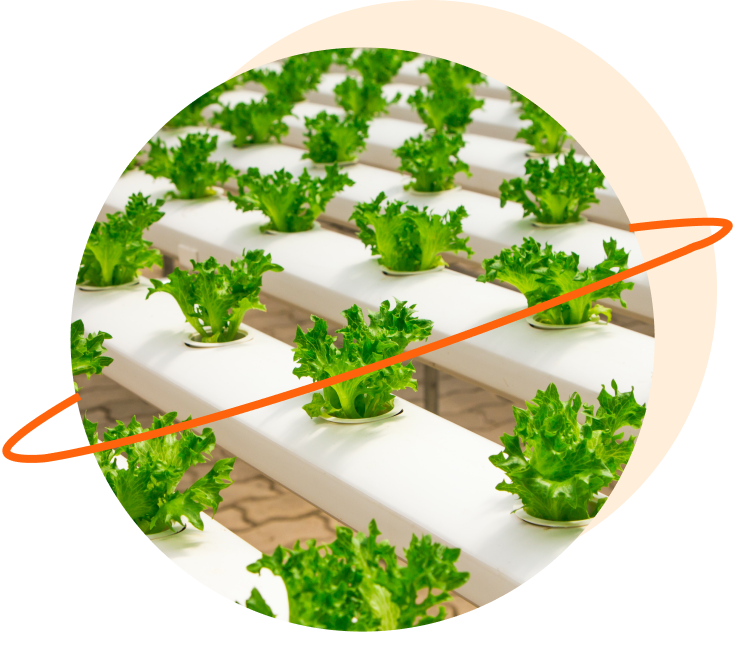
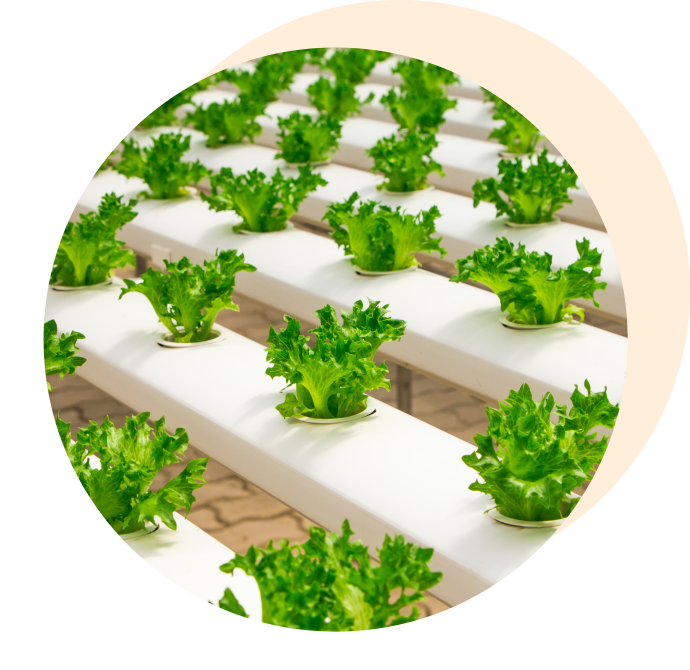
Add svgAnimation & loco Animation

diff --git a/frontend/src/components/Home/Home.js b/frontend/src/components/Home/Home.js
@@ -1,4 +1,4 @@
-import React, {useState, useEffect} from "react";
+import React, {useEffect} from "react";
 import locomotiveScroll from "locomotive-scroll";
 import "../../styles/Home.scss";
 import "../../styles/base_loco.css";
@@ -14,6 +14,7 @@ import Arrow from "../../assets/Home/2-How we make an impact/Arrow.png";
 import BackBigPic from "../../assets/Home/3-Know about process of farming/Back Big Pic.png";
 import RightLine from "../../assets/Home/3-Know about process of farming/Right Line.png";
 import FrontSmallPic from "../../assets/Home/3-Know about process of farming/Front Small Pic.png";
+import ButtonHoverArrow from "../../assets/Home/3-Know about process of farming/HoverArrow.png";
 // Updated methods assets
 import Updated__Left from "../../assets/Home/4-Updated methods/Left Side Pic.png";
 //Footer assets
@@ -36,7 +37,7 @@ function Home() {
         <>
             <div className="scroll" ref={scrollRef}>
             <div>
-                <nav data-scroll-sticky id="navbar" style={{position: 'fixed'}}>
+                <nav data-scroll-sticky id="navbar">
                     <p className="nav__logo">LOGO</p>
                     <ul className="navlinks">
                         <li><a className="navlinks__shop" href="/shop">Shop</a></li>
@@ -74,6 +75,10 @@ function Home() {
             
 
             <img src={HeroPic} className="hero__pic"/>
+            <svg id="hero__pic--orangeLine" viewBox="0 0 735 247" fill="none" xmlns="http://www.w3.org/2000/svg">
+                <path className="svgLine" d="M49.4997 197C30.9225 207.329 18.8496 213.564 6.97569 228.068C-4.89819 242.572 26.1059 242.902 43.0921 241.253C111.505 230.989 335.326 175.101 683.305 33.6585C687.687 31.6202 691.107 30.0903 692.27 29.5802C700.252 27.5104 718.194 20.7536 726.103 10.2842C734.012 -0.185244 672.294 6.84977 636 11.5" stroke="#FF640D" stroke-width="8"/>
+            </svg>
+
             
             {/* How we make an impact / About Us Section */}
             <div className="makeAnImpact">
@@ -94,6 +99,7 @@ function Home() {
                 
                 <a href="#" className="process__button">
                     <p id="process__button--LearnMore">Learn more</p>
+                    <img src={ButtonHoverArrow} className="process__button--buttonHoverArrow" />
                 </a>
 
                 <img src={RightLine} className="process__rightLine" />

diff --git a/frontend/src/styles/Home.scss b/frontend/src/styles/Home.scss
@@ -139,7 +139,29 @@ a {
   left: 55.8vw;
   top: 8.68vw;
 }
+#hero__pic--orangeLine {
+  position: absolute;
+  width: 38.55vw;
+  left: 55.8vw;
+  top: 20vw;
 
+  .svgLine {
+    fill-opacity: 0;
+    stroke-width: 8px;
+    stroke-dashoffset: 0;
+    stroke-dasharray: 1000;
+    animation: svgLineAnimation 2s ease-in-out;
+    animation-delay: 1s;
+  }
+  @keyframes svgLineAnimation {
+    0% {
+      stroke-dashoffset: 1000;
+    }
+    100% {
+      stroke-dashoffset: 0;
+    }
+  }
+}
 // How we make an impact Section
 .makeAnImpact {
   overflow-x: hidden;
@@ -274,6 +296,12 @@ a {
   font-size: 1.22vw;
   opacity: 81%;
 }
+.process__button--buttonHoverArrow {
+  position: absolute;
+  width: 66px;
+  height: 66px;
+  opacity: 0;
+}
 .process__button {
   top: 16.9vw;
   height: 11.9vw;
@@ -289,10 +317,13 @@ a {
   font-size: 1.78vw;
 
   &:hover {
-    cursor: url(../assets/Home/HoverArrow.png), default;
     #process__button--LearnMore {
       transition: 0.2s ease;
       opacity: 0;
+    }
+    .process__button--buttonHoverArrow {
+      opacity: 1;
+      transition: 0.3s ease;
     }
     .cursor {
       visibility: hidden;
